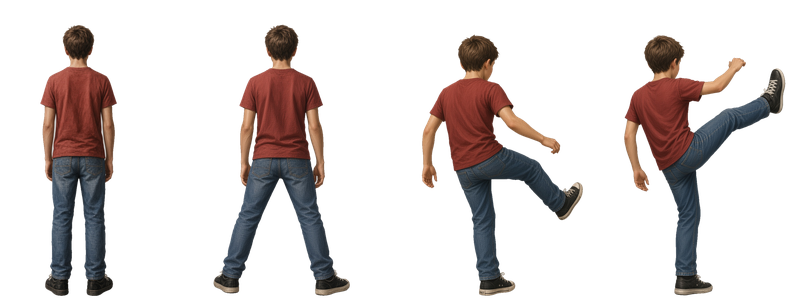
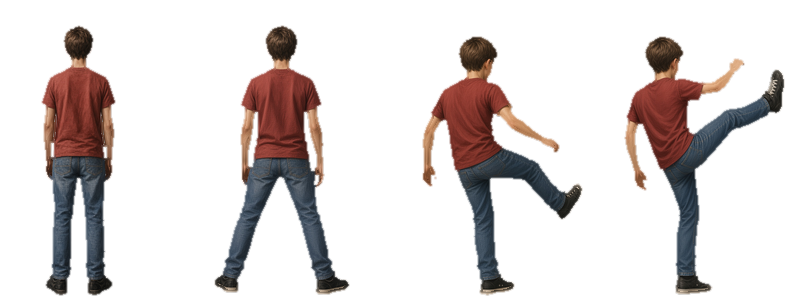
Kid sprite: defringe edges, remove light slivers

diff --git a/index.html b/index.html
@@ -25,4 +25,4 @@
 <script src="s31.js?v=1792273000"></script>
 <script src="s32.js?v=1792273000"></script>
 <script src="s33.js"></script>
-<script src="s34.js?v=1792273000"></script><script src="s35.js?v=1792273000"></script><script src="s36.js?v=1792273000"></script><script src="s37.js?v=1792273000"></script><script src="i18n_es.js?v=1792288000"></script><script src="s38.js?v=1792275000"></script><script src="s39.js?v=1792273000"></script><script src="s40.js?v=1792273000"></script><script src="s41.js?v=1792273000"></script><script src="s42.js?v=1792273000"></script><script src="s43.js?v=1792273000"></script><script src="s44.js?v=1792273000"></script><script src="s45.js?v=1792273000"></script><script src="s46.js?v=1792279000"></script><script src="s47.js?v=1792273000"></script><script src="s48.js?v=1792273000"></script><script src="s49.js?v=1792288000"></script><script src="s50.js?v=1792273000"></script><script src="s51.js?v=1792273000"></script><script src="s52.js?v=1792273000"></script><script src="s53.js?v=1792273000"></script><script src="s54.js?v=1792273000"></script><script src="s55.js?v=1792273000"></script><script src="s56.js?v=1792273000"></script><script src="s57.js?v=1792273000"></script><script src="s58.js?v=1792273000"></script><script src="s59.js?v=1792273000"></script><script src="s60.js?v=1792273000"></script><script src="s61.js?v=1792273000"></script><script src="s62.js?v=1792278100"></script><script src="s63.js?v=1792273000"></script><script src="s64.js?v=1792273000"></script><script src="s65a.js?v=1792273000"></script><script src="s65.js?v=1792273000"></script><script src="s66.js?v=1792273000"></script><script src="s67.js?v=1792283000"></script><script src="s68.js?v=1792273000"></script><script src="s69.js?v=1792273000"></script><script src="s70.js?v=1792273000"></script><script src="s71.js?v=1792278000"></script><script src="s72.js?v=1792273000"></script><script src="s73.js?v=1792273000"></script><script src="s74.js?v=1792273000"></script><script src="s75.js?v=1792273000"></script><script src="s76.js?v=1792273000"></script><script src="s77.js?v=1792273000"></script><script src="s78.js?v=1792273000"></script><script src="s79.js?v=1792275000"></script><script src="s80.js?v=1792273000"></script><script src="s81.js?v=1792273000"></script><script src="s82.js?v=1792273000"></script><script src="s83.js?v=1792273000"></script><script src="s84.js?v=1792273000"></script><script src="s85.js?v=1792273000"></script><script src="s86.js?v=1792273100"></script><script src="s87.js?v=1792273000"></script><script src="s88.js?v=1792278000"></script><script src="s89.js?v=1792274000"></script><script src="story-kid.js?v=1792340000"></script><script src="story1.js?v=1792340000"></script><script src="s90.js?v=1792274000"></script><script src="s91.js?v=1792275000"></script><script src="s92.js?v=1792282000"></script><script src="s93.js?v=1792277100"></script><script src="s94.js?v=1792285000"></script><script src="s95.js?v=1792278100"></script><script src="s96.js?v=1792279100"></script><script src="s97.js?v=1792280100"></script><script src="s98.js?v=1792281100"></script><script src="s99.js?v=1792282100"></script><script src="s100.js?v=1792282100"></script><script src="s101.js?v=1792283100"></script><script src="s102.js?v=1792285100"></script><script src="s103.js?v=1792285100"></script><script src="s104.js?v=1792285100"></script><script src="s105.js?v=1792286000"></script><script src="s106.js?v=1792287000"></script><script src="s107.js?v=1792287000"></script><script src="s108.js?v=1792288000"></script><script src="s109.js?v=1792310000"></script></body></html>
+<script src="s34.js?v=1792273000"></script><script src="s35.js?v=1792273000"></script><script src="s36.js?v=1792273000"></script><script src="s37.js?v=1792273000"></script><script src="i18n_es.js?v=1792288000"></script><script src="s38.js?v=1792275000"></script><script src="s39.js?v=1792273000"></script><script src="s40.js?v=1792273000"></script><script src="s41.js?v=1792273000"></script><script src="s42.js?v=1792273000"></script><script src="s43.js?v=1792273000"></script><script src="s44.js?v=1792273000"></script><script src="s45.js?v=1792273000"></script><script src="s46.js?v=1792279000"></script><script src="s47.js?v=1792273000"></script><script src="s48.js?v=1792273000"></script><script src="s49.js?v=1792288000"></script><script src="s50.js?v=1792273000"></script><script src="s51.js?v=1792273000"></script><script src="s52.js?v=1792273000"></script><script src="s53.js?v=1792273000"></script><script src="s54.js?v=1792273000"></script><script src="s55.js?v=1792273000"></script><script src="s56.js?v=1792273000"></script><script src="s57.js?v=1792273000"></script><script src="s58.js?v=1792273000"></script><script src="s59.js?v=1792273000"></script><script src="s60.js?v=1792273000"></script><script src="s61.js?v=1792273000"></script><script src="s62.js?v=1792278100"></script><script src="s63.js?v=1792273000"></script><script src="s64.js?v=1792273000"></script><script src="s65a.js?v=1792273000"></script><script src="s65.js?v=1792273000"></script><script src="s66.js?v=1792273000"></script><script src="s67.js?v=1792283000"></script><script src="s68.js?v=1792273000"></script><script src="s69.js?v=1792273000"></script><script src="s70.js?v=1792273000"></script><script src="s71.js?v=1792278000"></script><script src="s72.js?v=1792273000"></script><script src="s73.js?v=1792273000"></script><script src="s74.js?v=1792273000"></script><script src="s75.js?v=1792273000"></script><script src="s76.js?v=1792273000"></script><script src="s77.js?v=1792273000"></script><script src="s78.js?v=1792273000"></script><script src="s79.js?v=1792275000"></script><script src="s80.js?v=1792273000"></script><script src="s81.js?v=1792273000"></script><script src="s82.js?v=1792273000"></script><script src="s83.js?v=1792273000"></script><script src="s84.js?v=1792273000"></script><script src="s85.js?v=1792273000"></script><script src="s86.js?v=1792273100"></script><script src="s87.js?v=1792273000"></script><script src="s88.js?v=1792278000"></script><script src="s89.js?v=1792274000"></script><script src="story-kid.js?v=1792340000"></script><script src="story1.js?v=1792350000"></script><script src="s90.js?v=1792274000"></script><script src="s91.js?v=1792275000"></script><script src="s92.js?v=1792282000"></script><script src="s93.js?v=1792277100"></script><script src="s94.js?v=1792285000"></script><script src="s95.js?v=1792278100"></script><script src="s96.js?v=1792279100"></script><script src="s97.js?v=1792280100"></script><script src="s98.js?v=1792281100"></script><script src="s99.js?v=1792282100"></script><script src="s100.js?v=1792282100"></script><script src="s101.js?v=1792283100"></script><script src="s102.js?v=1792285100"></script><script src="s103.js?v=1792285100"></script><script src="s104.js?v=1792285100"></script><script src="s105.js?v=1792286000"></script><script src="s106.js?v=1792287000"></script><script src="s107.js?v=1792287000"></script><script src="s108.js?v=1792288000"></script><script src="s109.js?v=1792310000"></script></body></html>

diff --git a/story1.js b/story1.js
@@ -412,7 +412,7 @@ function kid(b){const SK=(typeof SKIN!=='undefined'&&MK.on&&SKIN[MK.skin]&&SKIN[
  x.fillStyle='rgba(90,90,95,.85)';for(let f=0;f<4;f++){x.fillRect(f*203,KD.fy+22,203,8);const T=tip[f];if(T&&f<3){x.save();x.beginPath();x.arc(T[0],T[1],KD.fr,0,7);x.clip();x.fillRect(T[0]-KD.fr,T[1]+KD.fr*0.45,KD.fr*2,KD.fr);x.restore()}}x.restore();
  return KC[key]=c}
 Object.assign(KD,{w:46,hb:30,hy:6,rx:17,ry:21,fy:262,fr:24,hw:34,st:22,sw0:0.92,sw1:0.74,sx:0.82,sy:8,sr:20,ak:0.72,av:0.4,cr:14});
-window.FGF_KIDSHEET=kid;const KID5=new Image();KID5.src='story/kidsheet6.png?v=1';
+window.FGF_KIDSHEET=kid;const KID5=new Image();KID5.src='story/kidsheet6.png?v=2';
 const JGON=()=>{try{return mode==='story'&&state==='play'&&window.FGF_STORY&&FGF_STORY._jg&&FGF_STORY._jg()}catch(e){return false}};
 {const ok=S5.kimg;S5.kimg=function(ti,p2){const s=ok.apply(this,arguments);try{if(!p2&&JGON()){const k=(KID5.complete&&KID5.naturalWidth)?KID5:window.FGF_KID2?FGF_KID2.sheet({sk:'#d8a283',hr:'#4a3626'}):kid(MK.on&&MK.masc<0?MK.base:ti);if(k)return k}}catch(e){}return s}}
 {const od=S3.decal;S3.decal=function(){if(JGON())return;return od.apply(this,arguments)}}
